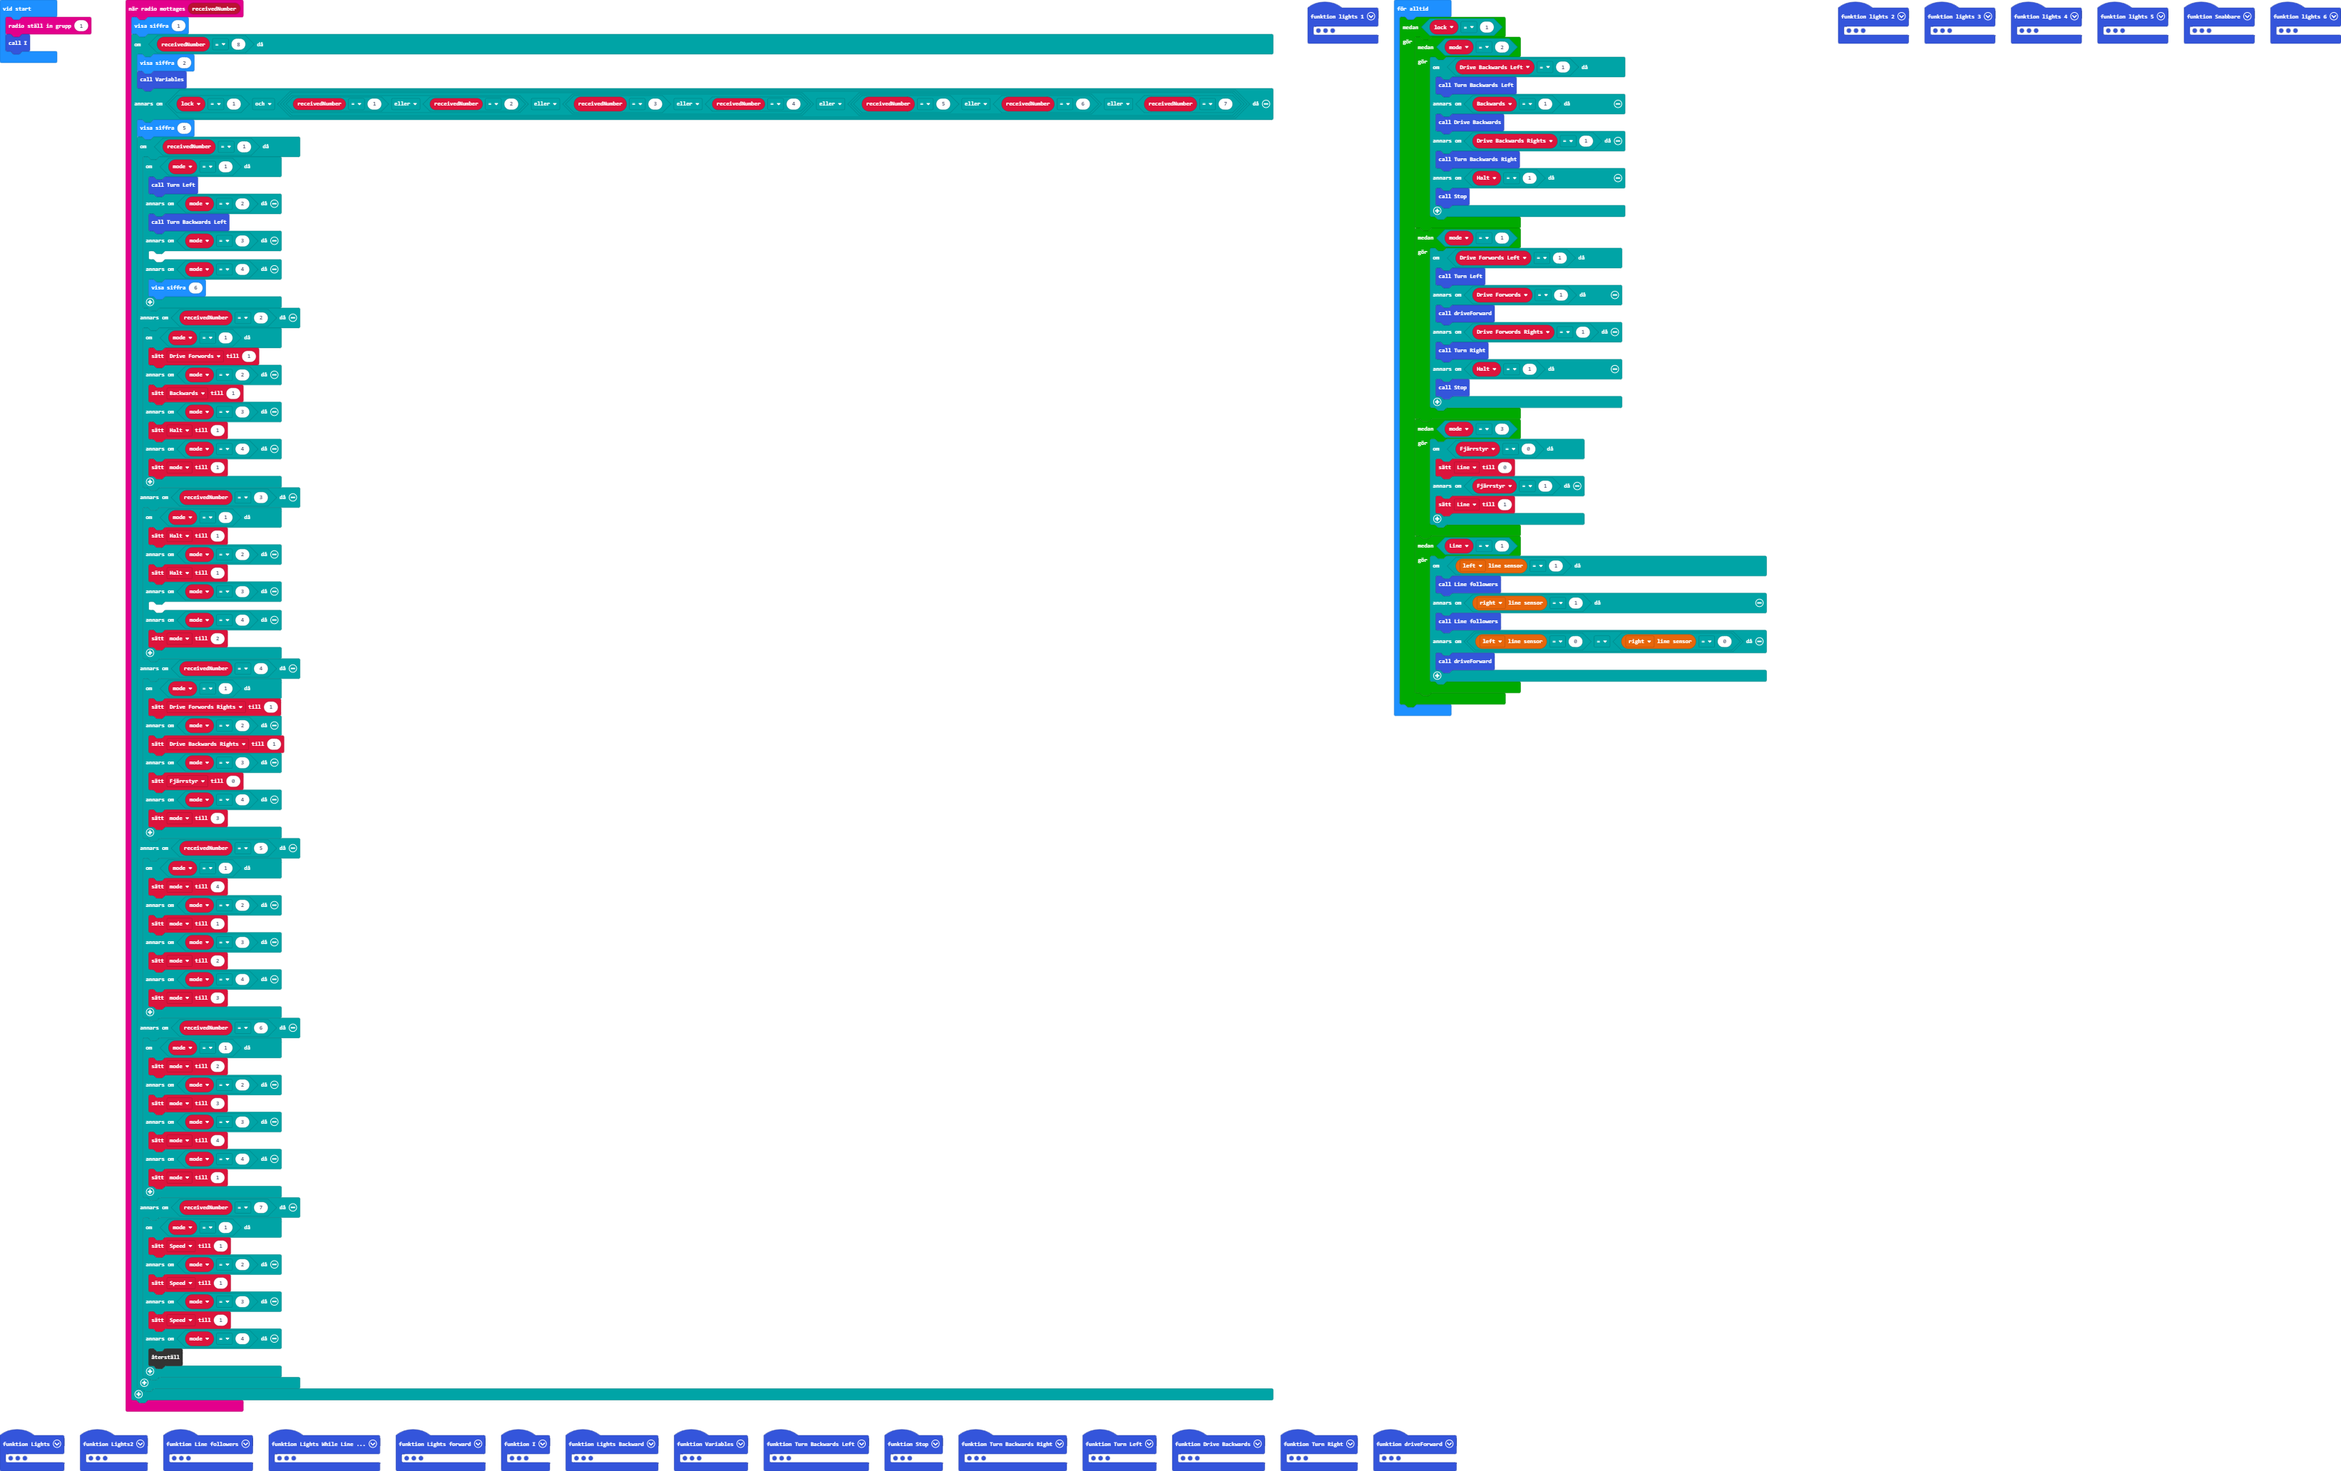
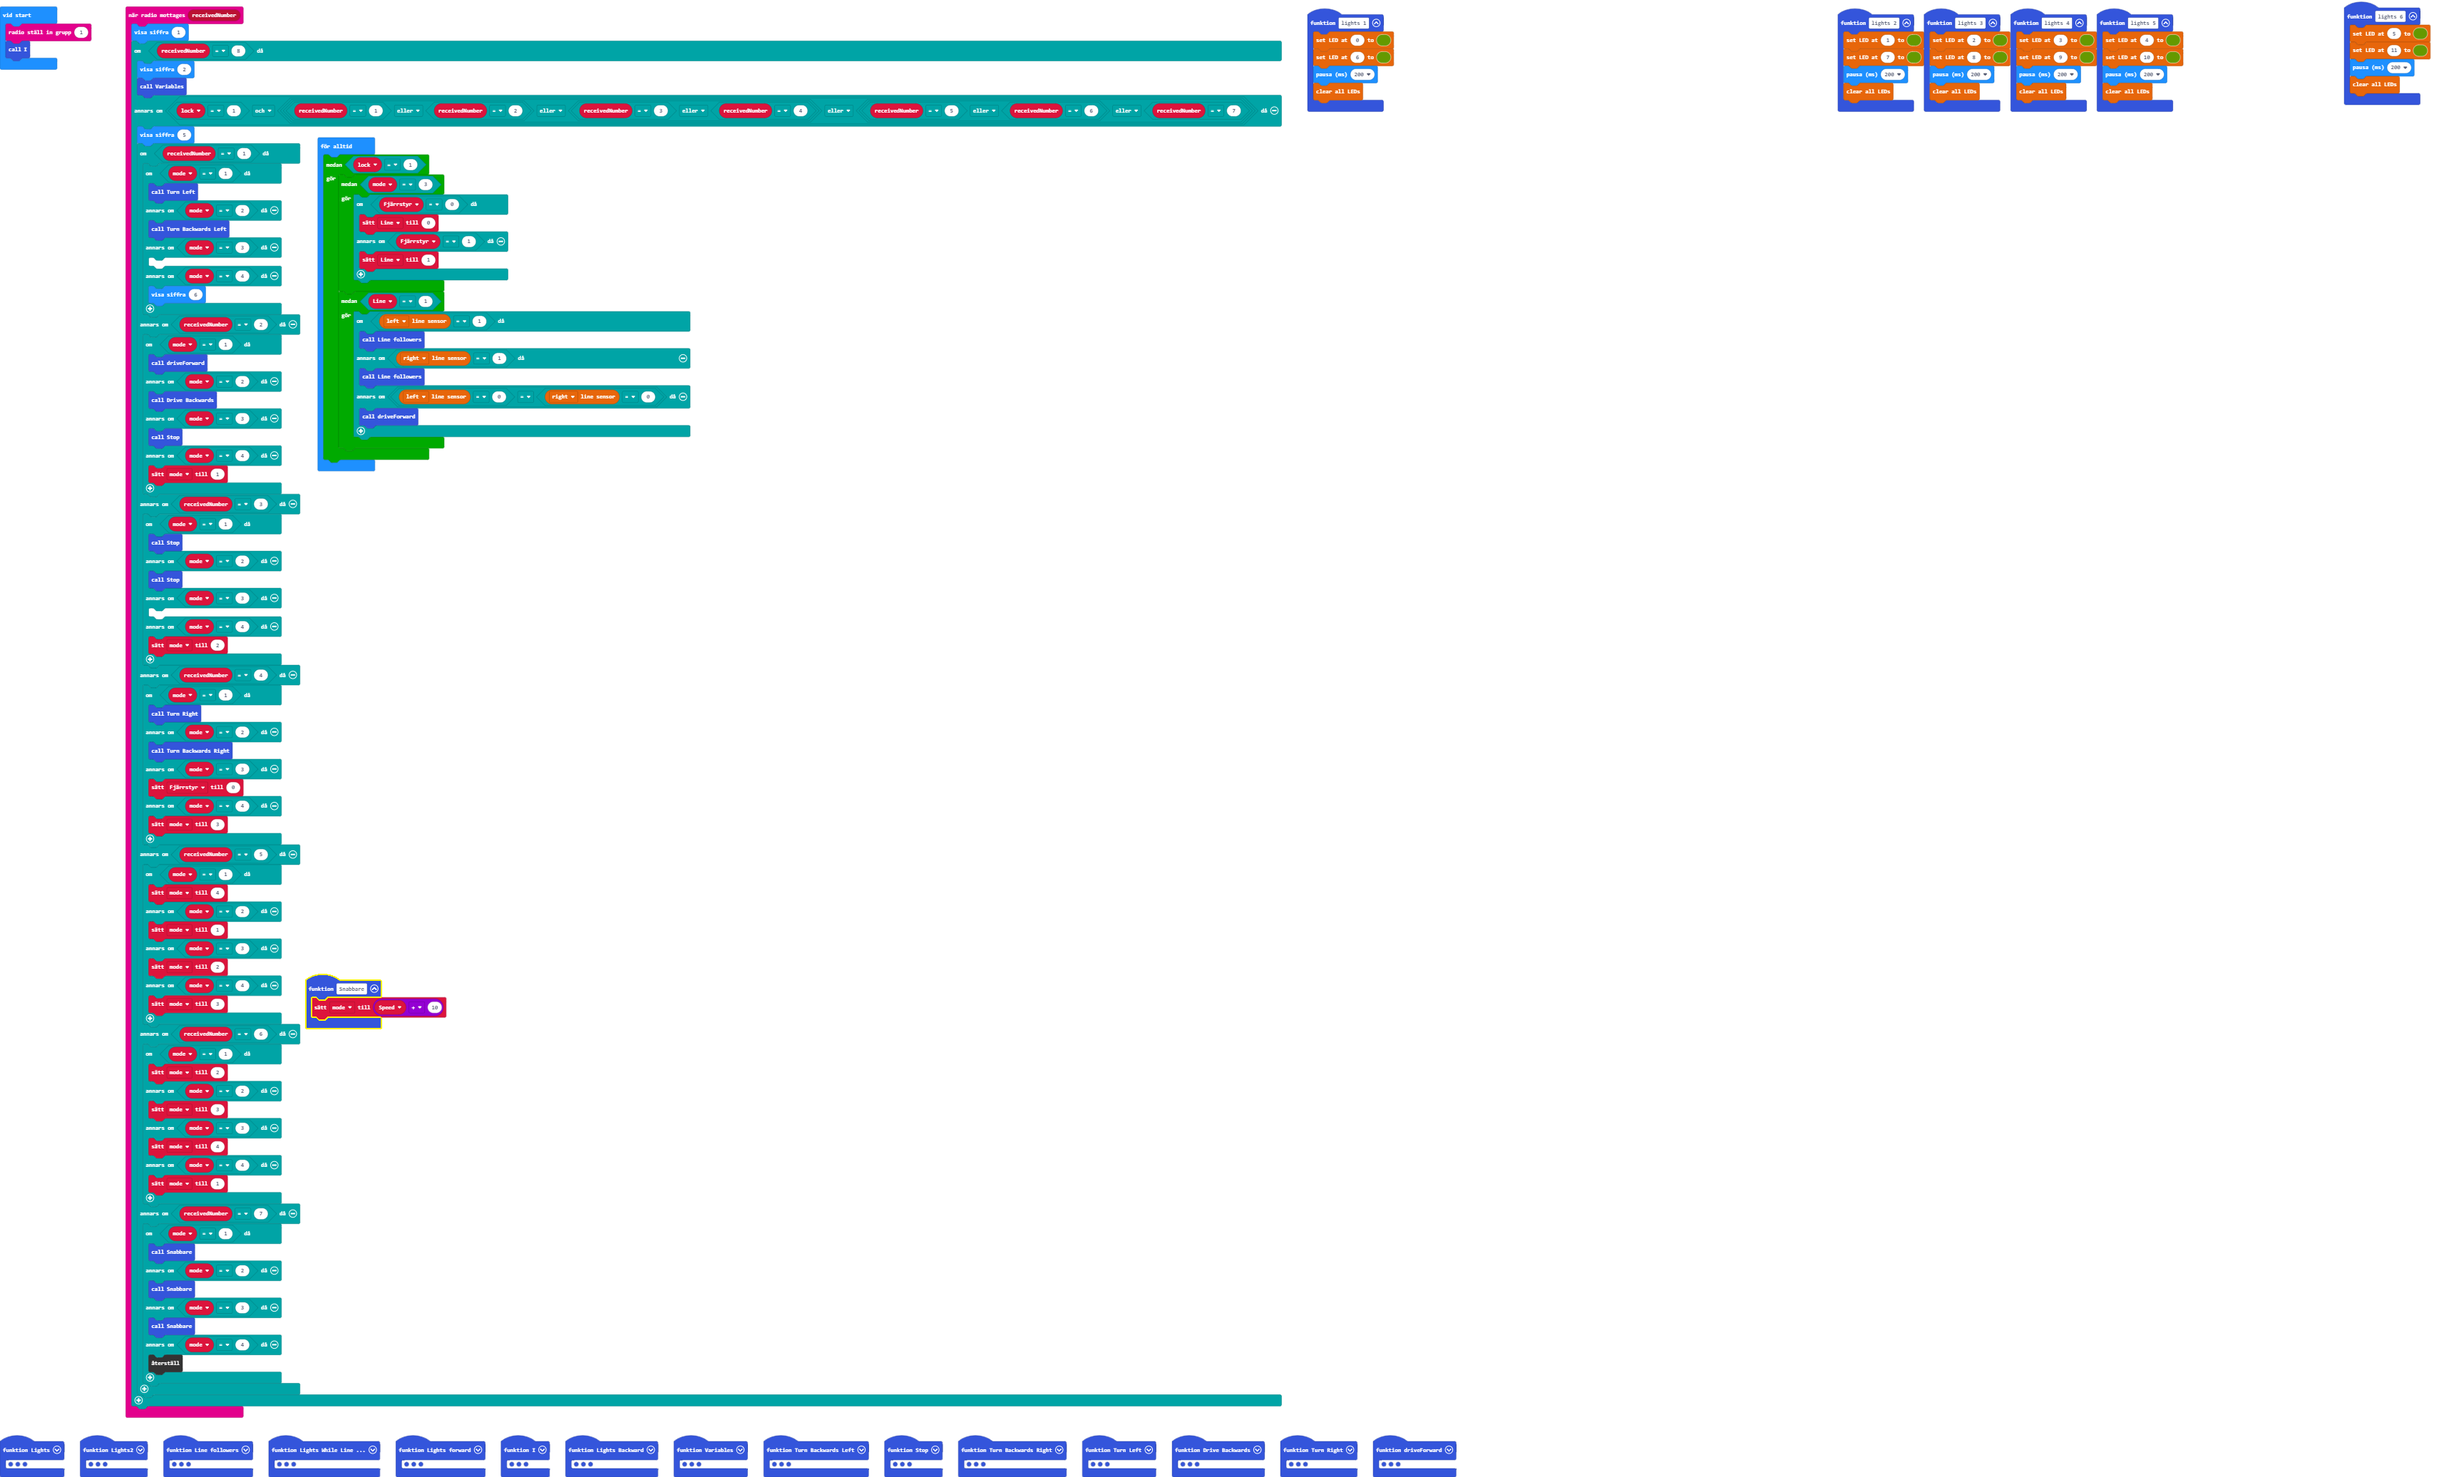
Update main.blocks, main.ts

Changed region(s): [[0.0, 0.0, 0.7767, 1.0], [0.7457, 0.0, 1.0, 0.0931]]

diff --git a/main.ts b/main.ts
@@ -68,19 +68,19 @@ radio.onReceivedNumber(function (receivedNumber) {
             }
         } else if (receivedNumber == 2) {
             if (mode == 1) {
-                Drive_Forwords = 1
+                driveForward()
             } else if (mode == 2) {
-                Backwards = 1
+                Drive_Backwards()
             } else if (mode == 3) {
-                Halt = 1
+                Stop()
             } else if (mode == 4) {
                 mode = 1
             }
         } else if (receivedNumber == 3) {
             if (mode == 1) {
-                Halt = 1
+                Stop()
             } else if (mode == 2) {
-                Halt = 1
+                Stop()
             } else if (mode == 3) {
             	
             } else if (mode == 4) {
@@ -88,9 +88,9 @@ radio.onReceivedNumber(function (receivedNumber) {
             }
         } else if (receivedNumber == 4) {
             if (mode == 1) {
-                Drive_Forwords_Rights = 1
+                Turn_Right()
             } else if (mode == 2) {
-                Drive_Backwards_Rights = 1
+                Turn_Backwards_Right()
             } else if (mode == 3) {
                 Fjärrstyr = 0
             } else if (mode == 4) {
@@ -118,11 +118,11 @@ radio.onReceivedNumber(function (receivedNumber) {
             }
         } else if (receivedNumber == 7) {
             if (mode == 1) {
-                Speed = 1
+                Snabbare()
             } else if (mode == 2) {
-                Speed = 1
+                Snabbare()
             } else if (mode == 3) {
-                Speed = 1
+                Snabbare()
             } else if (mode == 4) {
                 control.reset()
             }
@@ -310,15 +310,15 @@ function Variables () {
     Line = 0
 }
 let Line = 0
+let Halt = 0
+let Drive_Forwords_Rights = 0
+let Drive_Forwords = 0
 let Drive_Forwords_Left = 0
+let Drive_Backwards_Rights = 0
+let Backwards = 0
 let Drive_Backwards_Left = 0
 let Speed = 0
 let Fjärrstyr = 0
-let Drive_Backwards_Rights = 0
-let Drive_Forwords_Rights = 0
-let Halt = 0
-let Backwards = 0
-let Drive_Forwords = 0
 let mode = 0
 let lock = 0
 let Led = 0
@@ -326,28 +326,6 @@ radio.setGroup(1)
 I()
 basic.forever(function () {
     while (lock == 1) {
-        while (mode == 2) {
-            if (Drive_Backwards_Left == 1) {
-                Turn_Backwards_Left()
-            } else if (Backwards == 1) {
-                Drive_Backwards()
-            } else if (Drive_Backwards_Rights == 1) {
-                Turn_Backwards_Right()
-            } else if (Halt == 1) {
-                Stop()
-            }
-        }
-        while (mode == 1) {
-            if (Drive_Forwords_Left == 1) {
-                Turn_Left()
-            } else if (Drive_Forwords == 1) {
-                driveForward()
-            } else if (Drive_Forwords_Rights == 1) {
-                Turn_Right()
-            } else if (Halt == 1) {
-                Stop()
-            }
-        }
         while (mode == 3) {
             if (Fjärrstyr == 0) {
                 Line = 0
